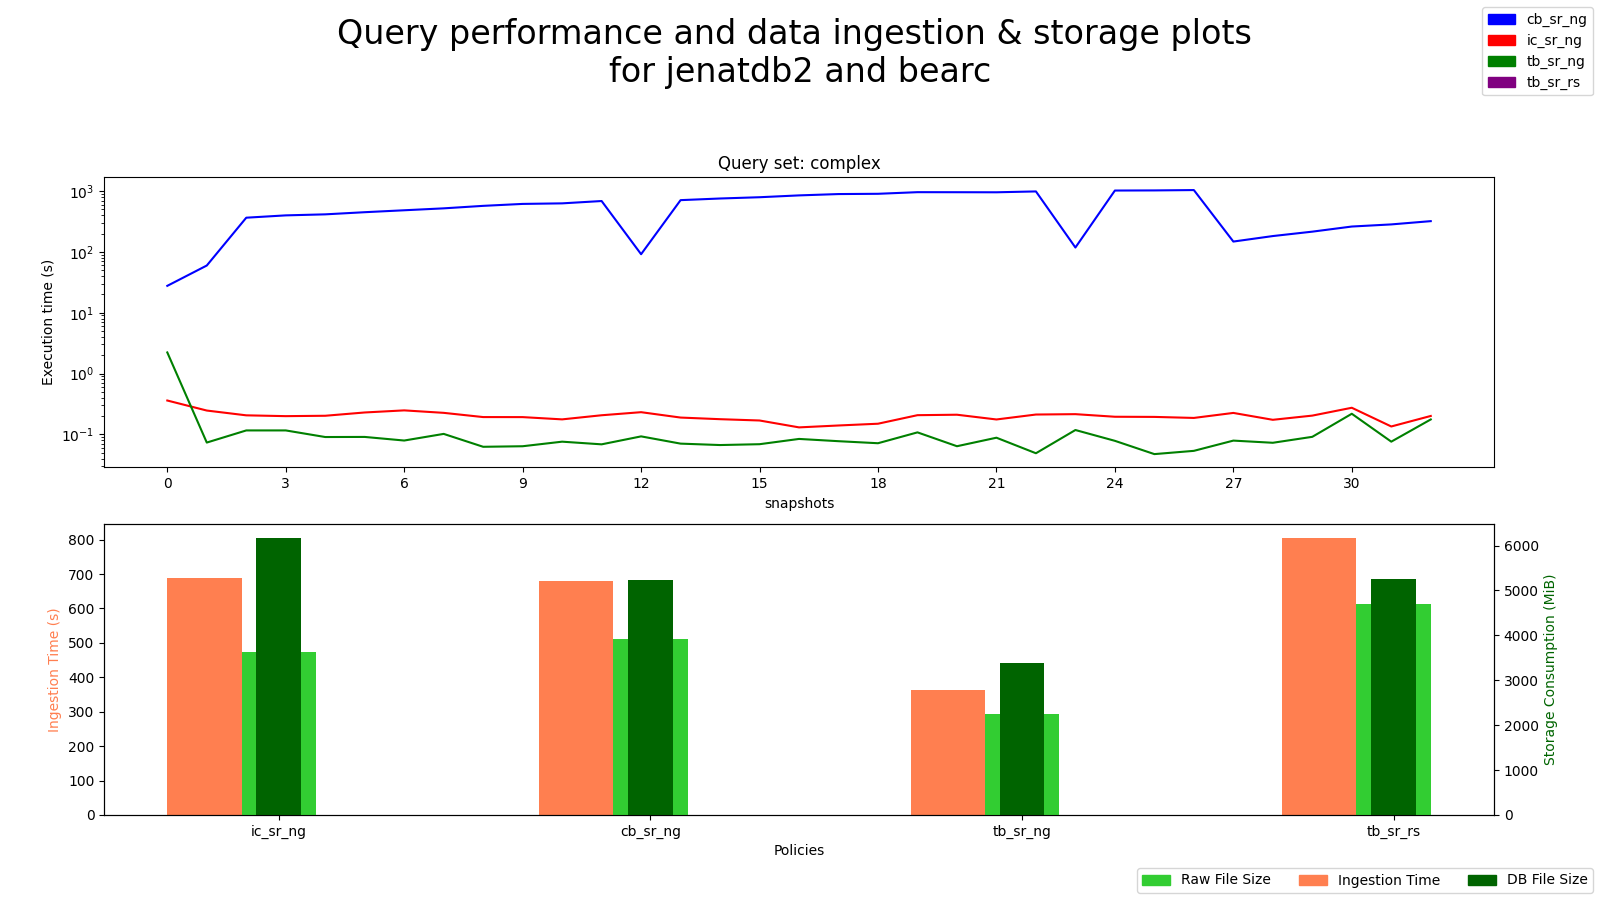
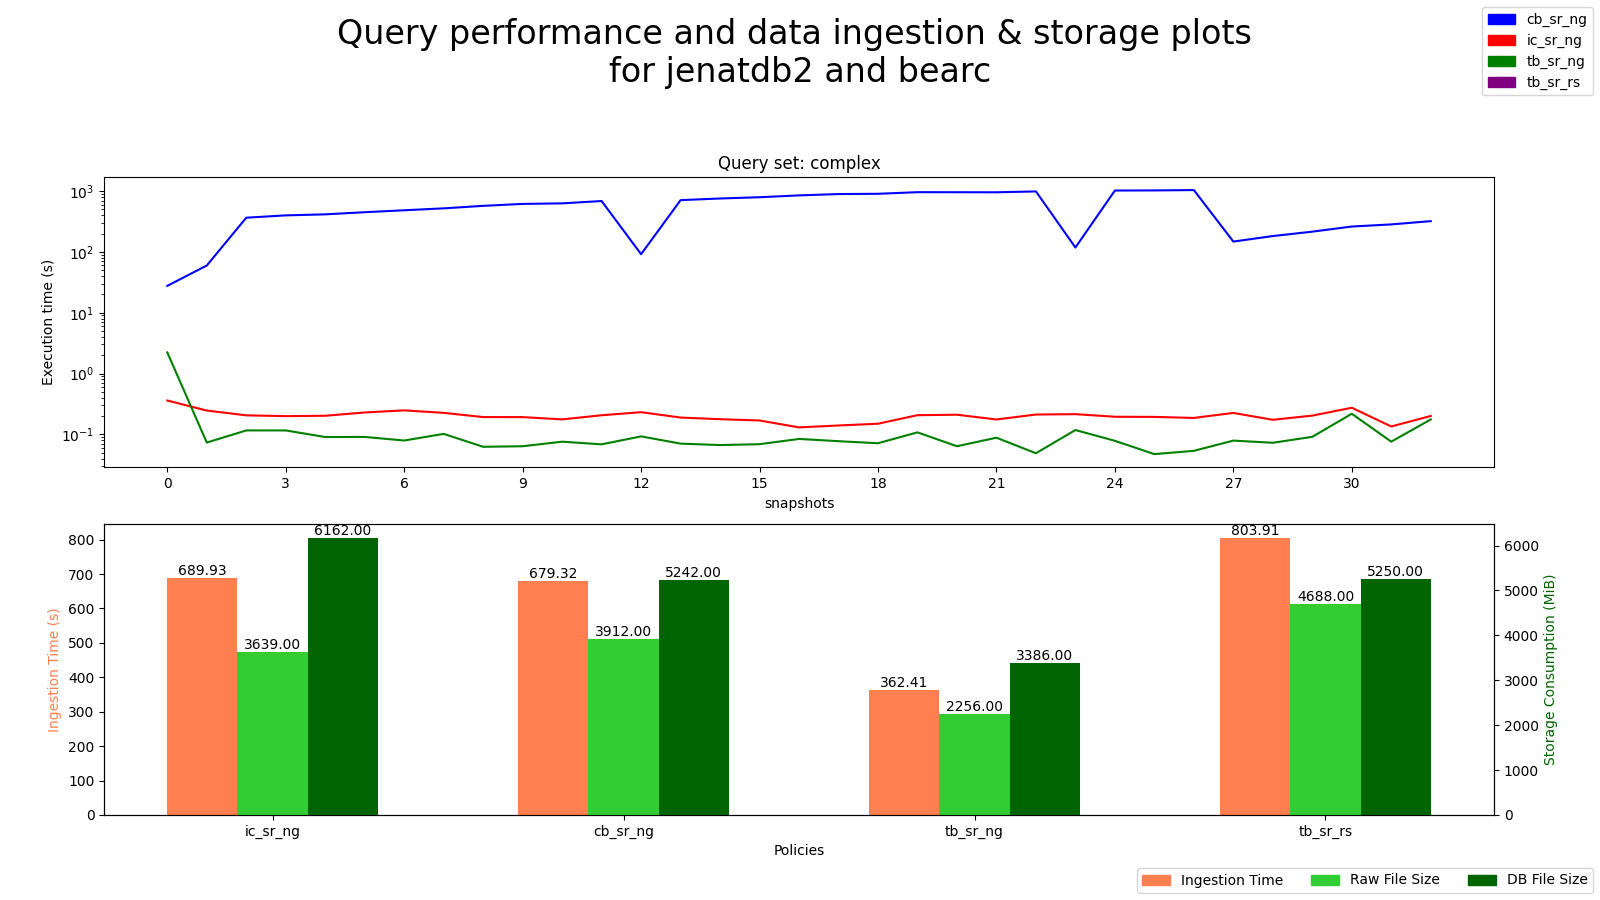
fix handles and add numbers to bars

diff --git a/scripts_dev/7_visualize/visualize.py b/scripts_dev/7_visualize/visualize.py
@@ -101,7 +101,12 @@ def create_plots(triplestore: str, dataset: str):
             
             ax.bar(i - bar_width, ing_time, bar_width, alpha=opacity, color='coral', label="Ingestion Time")
             ax2.bar(i, raw_size, bar_width, alpha=opacity, color='limegreen', label="Raw File Size")
-            ax2.bar(i, db_size, bar_width * 0.6, alpha=opacity, color='darkgreen', label="DB File Size")
+            ax2.bar(i + bar_width, db_size, bar_width, alpha=opacity, color='darkgreen', label="DB File Size")
+
+            # Add measurements as text to bars
+            ax.text(i - bar_width, ing_time, "{:.2f}".format(ing_time), ha='center', va='bottom')
+            ax2.text(i, raw_size, "{:.2f}".format(raw_size), ha='center', va='bottom')
+            ax2.text(i + bar_width, db_size, "{:.2f}".format(db_size), ha='center', va='bottom')
         
         ax.set_xticks(index)
         ax.yaxis.label.set_color('coral')
@@ -125,8 +130,14 @@ def create_plots(triplestore: str, dataset: str):
     limegreen_patch = mpatches.Patch(color='limegreen', label='Raw File Size')
     darkgreen_patch = mpatches.Patch(color='darkgreen', label='DB File Size')
     coral_patch = mpatches.Patch(color='coral', label='Ingestion Time')
-    fig.legend(loc="upper right", ncol=1, handles={red_patch, blue_patch, green_patch, purple_patch})
-    fig.legend(loc="lower right", ncol=3, handles={limegreen_patch, darkgreen_patch, coral_patch})
+
+    handles1 = [red_patch, blue_patch, green_patch, purple_patch]
+    handles2 = [coral_patch, limegreen_patch, darkgreen_patch]
+    fixed_labels = ['coral_patch', 'limegreen_patch', 'darkgreen_patch']
+
+
+    fig.legend(loc="upper right", ncol=1, handles=sorted(handles1, key=lambda x: x.get_label()))
+    fig.legend(loc="lower right", ncol=3, handles=sorted(handles2, key=lambda x: fixed_labels.index(x.get_label()) if x.get_label() in fixed_labels else len(fixed_labels)))
 
     fig.suptitle(f"Query performance and data ingestion & storage plots \nfor {triplestore} and {dataset}", fontsize=24)
     fig.set_figheight(9)
